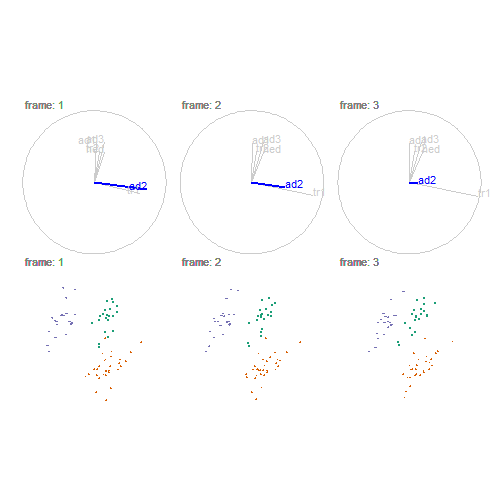
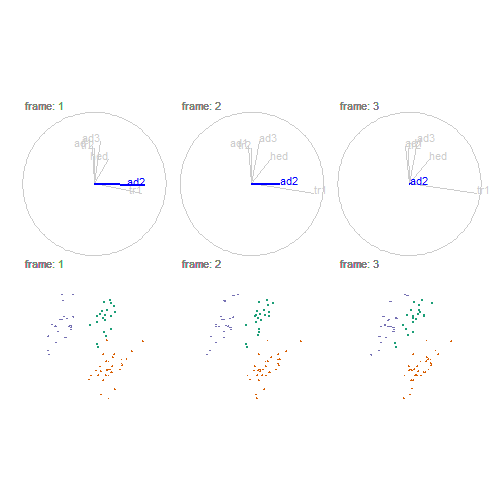
rotations back to dynamic.

diff --git a/slides_ns.html b/slides_ns.html
@@ -139,33 +139,33 @@ of the sensitivity of structure to the original variables or parameters? **
 &lt;tbody&gt;
   &lt;tr&gt;
    &lt;td style="text-align:left;"&gt; tars1 &lt;/td&gt;
-   &lt;td style="text-align:right;"&gt; 0.5543 &lt;/td&gt;
-   &lt;td style="text-align:right;"&gt; -0.0144 &lt;/td&gt;
+   &lt;td style="text-align:right;"&gt; 0.6645 &lt;/td&gt;
+   &lt;td style="text-align:right;"&gt; -0.1273 &lt;/td&gt;
   &lt;/tr&gt;
   &lt;tr&gt;
    &lt;td style="text-align:left;"&gt; tars2 &lt;/td&gt;
-   &lt;td style="text-align:right;"&gt; -0.1559 &lt;/td&gt;
-   &lt;td style="text-align:right;"&gt; 0.6308 &lt;/td&gt;
+   &lt;td style="text-align:right;"&gt; -0.0057 &lt;/td&gt;
+   &lt;td style="text-align:right;"&gt; 0.4892 &lt;/td&gt;
   &lt;/tr&gt;
   &lt;tr&gt;
    &lt;td style="text-align:left;"&gt; head &lt;/td&gt;
-   &lt;td style="text-align:right;"&gt; 0.5500 &lt;/td&gt;
-   &lt;td style="text-align:right;"&gt; -0.0127 &lt;/td&gt;
+   &lt;td style="text-align:right;"&gt; 0.2024 &lt;/td&gt;
+   &lt;td style="text-align:right;"&gt; 0.3419 &lt;/td&gt;
   &lt;/tr&gt;
   &lt;tr&gt;
    &lt;td style="text-align:left;"&gt; aede1 &lt;/td&gt;
-   &lt;td style="text-align:right;"&gt; 0.0896 &lt;/td&gt;
-   &lt;td style="text-align:right;"&gt; 0.4459 &lt;/td&gt;
+   &lt;td style="text-align:right;"&gt; -0.0330 &lt;/td&gt;
+   &lt;td style="text-align:right;"&gt; 0.5271 &lt;/td&gt;
   &lt;/tr&gt;
   &lt;tr&gt;
    &lt;td style="text-align:left;"&gt; aede2 &lt;/td&gt;
-   &lt;td style="text-align:right;"&gt; 0.0667 &lt;/td&gt;
-   &lt;td style="text-align:right;"&gt; 0.6326 &lt;/td&gt;
+   &lt;td style="text-align:right;"&gt; 0.7139 &lt;/td&gt;
+   &lt;td style="text-align:right;"&gt; -0.0175 &lt;/td&gt;
   &lt;/tr&gt;
   &lt;tr&gt;
    &lt;td style="text-align:left;"&gt; aede3 &lt;/td&gt;
-   &lt;td style="text-align:right;"&gt; 0.5945 &lt;/td&gt;
-   &lt;td style="text-align:right;"&gt; 0.0525 &lt;/td&gt;
+   &lt;td style="text-align:right;"&gt; 0.0813 &lt;/td&gt;
+   &lt;td style="text-align:right;"&gt; 0.5912 &lt;/td&gt;
   &lt;/tr&gt;
 &lt;/tbody&gt;
 &lt;/table&gt;
@@ -196,7 +196,7 @@ of the sensitivity of structure to the original variables or parameters? **
 
 *over a sequence of angles:* Rotate and project through manipulation space
 
-&lt;img src="./images/rotate_manip_sp.PNG" width="60%" height="60%" style="display: block; margin: auto;" /&gt;
+&lt;img src="slides_ns_files/figure-html/unnamed-chunk-8-1.png" width="40%" height="40%" style="display: block; margin: auto;" /&gt;
 
 
 ---
